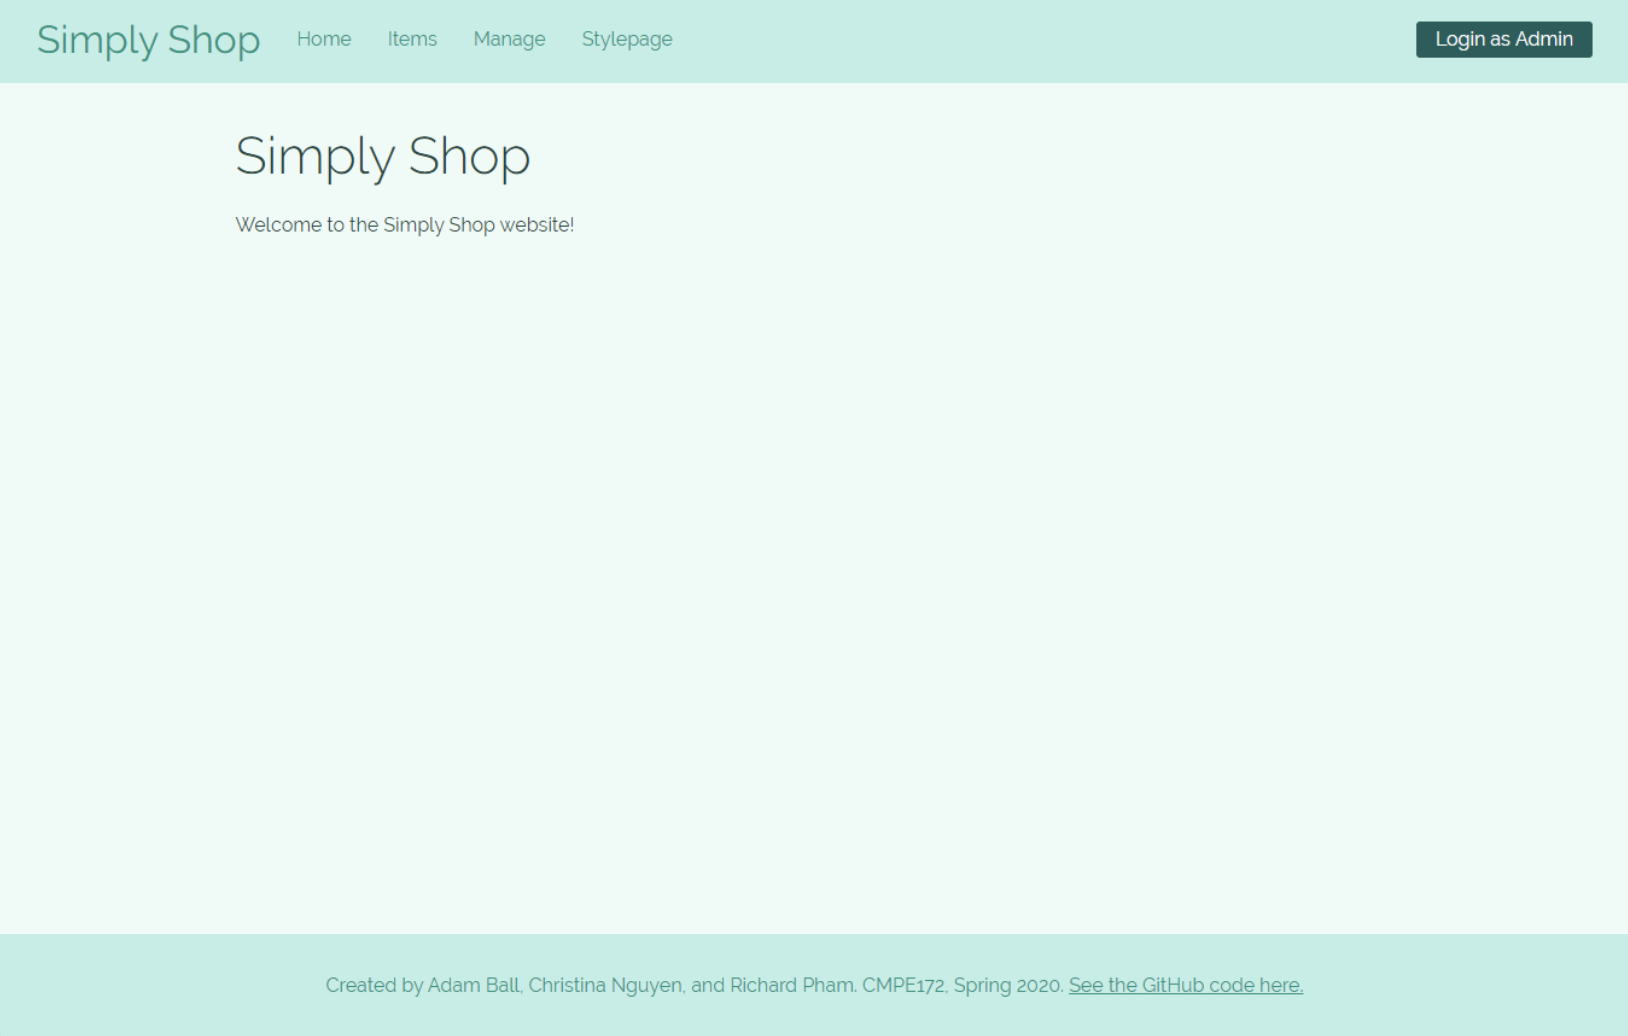
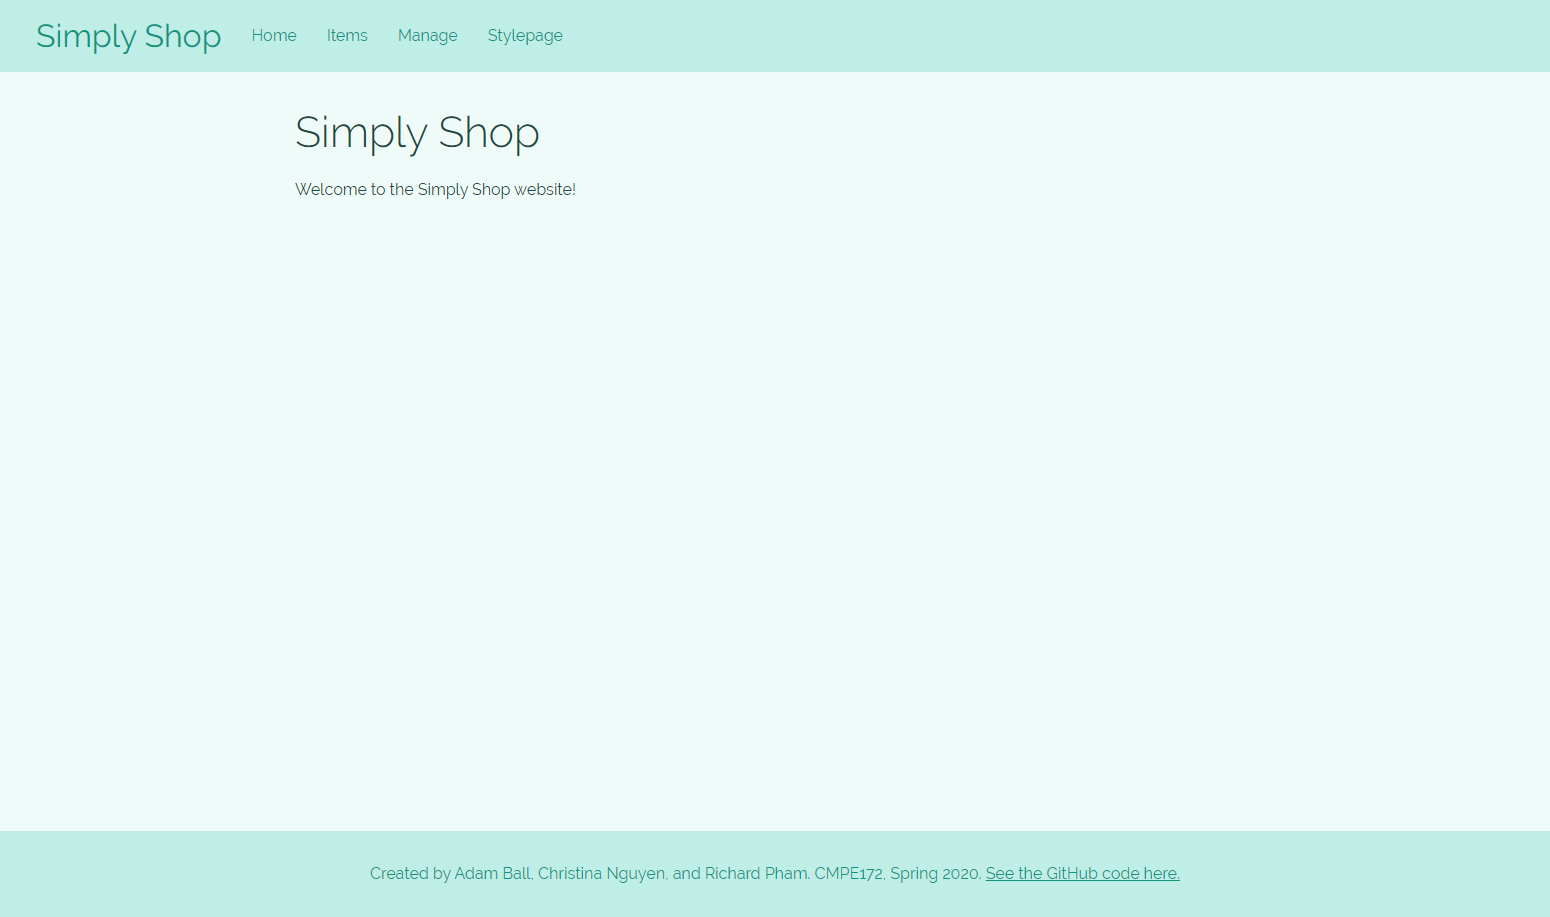
update

diff --git a/react-frontend/src/comps/navigation.js b/react-frontend/src/comps/navigation.js
@@ -17,9 +17,9 @@ const Navcomp = () => {
           <li><NavLink to="/manage">Manage</NavLink></li>
           <li><NavLink to="/stylepage">Stylepage</NavLink></li>
         </ul>
-        <button id="login-button">
+        {/* <button id="login-button">
           <NavLink to="/login">Login as Admin</NavLink>
-        </button>
+        </button> */}
       </nav>
     );
 }

diff --git a/README.md b/README.md
@@ -65,12 +65,15 @@ To run the React frontend application:
 4. Run the command “npm start” which will begin the React application and automatically open a window in your browser.
 5. That’s it! Now you can use all of the webpage features of Simply Shop that interface through the Spring Boot backend.
 
-### Database Schema
+### Database Schemas
 
+##### AWS RDS
 
+![AWS RDS Schema](Screenshots/RDS.png)
 
+##### AWS S3
 
-
+![AWS S3 Schema](Screenshots/S3.png)
 
 ### Spring Boot API Endpoints
 
@@ -150,4 +153,3 @@ EXPOSE 5000
 
 
 CMD java -jar simplyshop.jar -Dspring.config.location=application.properties
-
